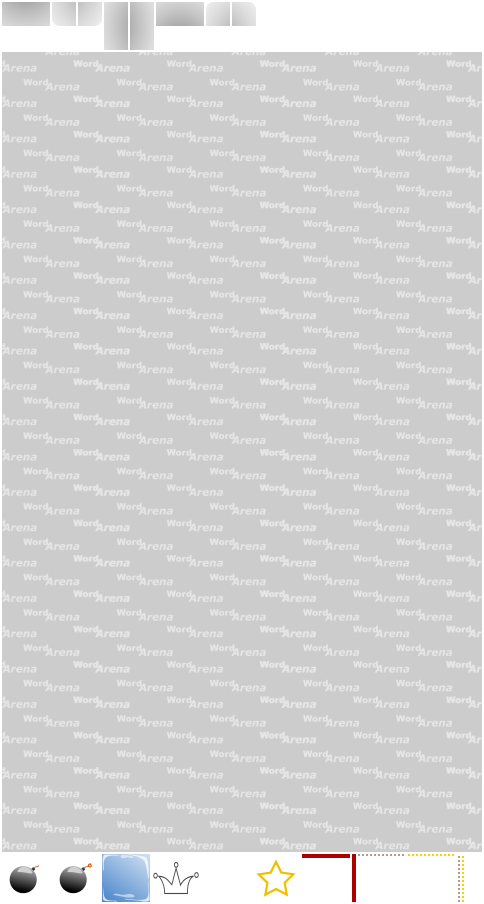
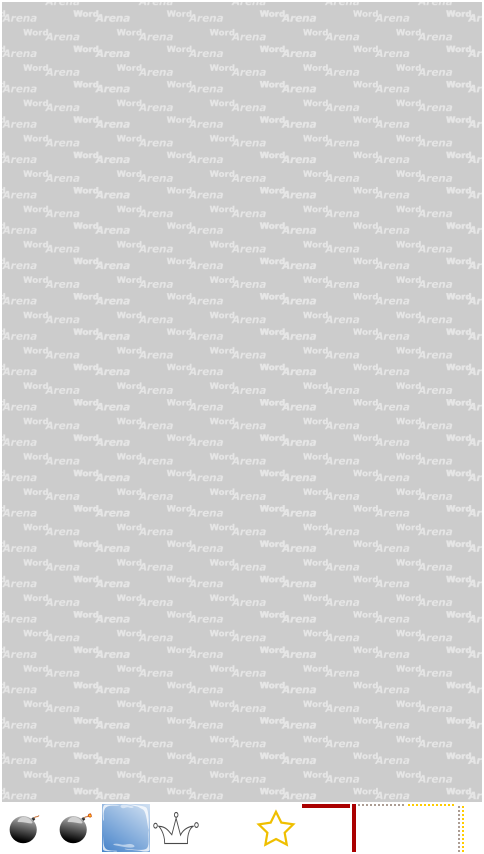
DEL : ArenaSkin : Suppression des bordures d'arènes

diff --git a/core/src/com/slamdunk/wordarena/assets/ArenaSkinLoader.java b/core/src/com/slamdunk/wordarena/assets/ArenaSkinLoader.java
@@ -3,7 +3,6 @@ package com.slamdunk.wordarena.assets;
 import com.badlogic.gdx.graphics.g2d.TextureRegion;
 import com.badlogic.gdx.scenes.scene2d.utils.TextureRegionDrawable;
 import com.slamdunk.wordarena.data.ArenaSkin;
-import com.slamdunk.wordarena.enums.BordersAndCorners;
 import com.slamdunk.wordarena.enums.CellTypes;
 
 /**
@@ -34,9 +33,6 @@ public class ArenaSkinLoader {
 		// Charge l'image de fond
 		loadBackground();
 		
-		// Charge les images des bords d'arène
-		loadArenaBorders();
-		
 		// Charge les images des murs
 		loadWalls();
 		
@@ -51,20 +47,6 @@ public class ArenaSkinLoader {
 	
 	private void loadBackground() {
 		skin.background = new TextureRegionDrawable(atlas.findRegion("background"));
-	}
-
-	private void loadArenaBorders() {
-		skin.arenaBorders.clear();
-		
-		for (BordersAndCorners border : BordersAndCorners.values()) {
-			
-			String regionName = "arena_border_" + border.name().toLowerCase();
-			TextureRegion region = atlas.findRegion(regionName);
-			
-			if (region != null) {
-				skin.arenaBorders.put(border, new TextureRegionDrawable(region));
-			}
-		}
 	}
 
 	private void loadWalls() {

diff --git a/core/src/com/slamdunk/wordarena/screens/arena/ArenaOverlay.java b/core/src/com/slamdunk/wordarena/screens/arena/ArenaOverlay.java
@@ -31,7 +31,6 @@ public class ArenaOverlay extends WorldOverlay {
 	private ArenaData data;
 	
 	private Image background;
-	private Group bordersGroup;
 	private GroupEx arenaGroup;
 	private GroupEx cellsGroup;
 	private Group wallsGroup;
@@ -44,9 +43,6 @@ public class ArenaOverlay extends WorldOverlay {
 
 		background = new Image();
 		getWorld().addActor(background);
-		
-		bordersGroup = new Group();
-		getWorld().addActor(bordersGroup);
 		
 		arenaGroup = new GroupEx();
 		getWorld().addActor(arenaGroup);
@@ -112,9 +108,6 @@ public class ArenaOverlay extends WorldOverlay {
 		// Ajoute les cellules
 		resetCells();
 		
-		// Ajoute les bords de l'arène
-		resetBorders();
-		
 		// Ajoute les murs
 		resetWalls();
 		
@@ -125,10 +118,6 @@ public class ArenaOverlay extends WorldOverlay {
 		centerArena();
 	}
 	
-	private void resetBorders() {
-		// Teste si la cellule est sur le bord de l'arène
-	}
-
 	private void resetBackground() {
 		background.setDrawable(Assets.arenaSkin.background);
 		background.setBounds(0, 0, WordArenaGame.SCREEN_WIDTH, WordArenaGame.SCREEN_HEIGHT);

diff --git a/core/src/com/slamdunk/wordarena/data/ArenaSkin.java b/core/src/com/slamdunk/wordarena/data/ArenaSkin.java
@@ -1,12 +1,8 @@
 package com.slamdunk.wordarena.data;
 
-import java.util.HashMap;
-import java.util.Map;
-
 import com.badlogic.gdx.graphics.g2d.TextureRegion;
 import com.badlogic.gdx.scenes.scene2d.utils.TextureRegionDrawable;
 import com.slamdunk.toolkit.lang.DoubleEntryArray;
-import com.slamdunk.wordarena.enums.BordersAndCorners;
 import com.slamdunk.wordarena.enums.CellTypes;
 
 /**
@@ -26,16 +22,10 @@ public class ArenaSkin {
 	
 	public DoubleEntryArray<CellTypes, Boolean/*selected?*/, TextureRegion> cellTypes;
 	
-	/**
-	 * Images à placer à côté des cellules de bord d'arène
-	 */
-	public Map<BordersAndCorners, TextureRegionDrawable> arenaBorders;
-	
 	public TextureRegionDrawable background;
 	
 	public ArenaSkin() {
 		cellTypes = new DoubleEntryArray<CellTypes, Boolean, TextureRegion>();
-		arenaBorders = new HashMap<BordersAndCorners, TextureRegionDrawable>();
 	}
 	
 	/**
